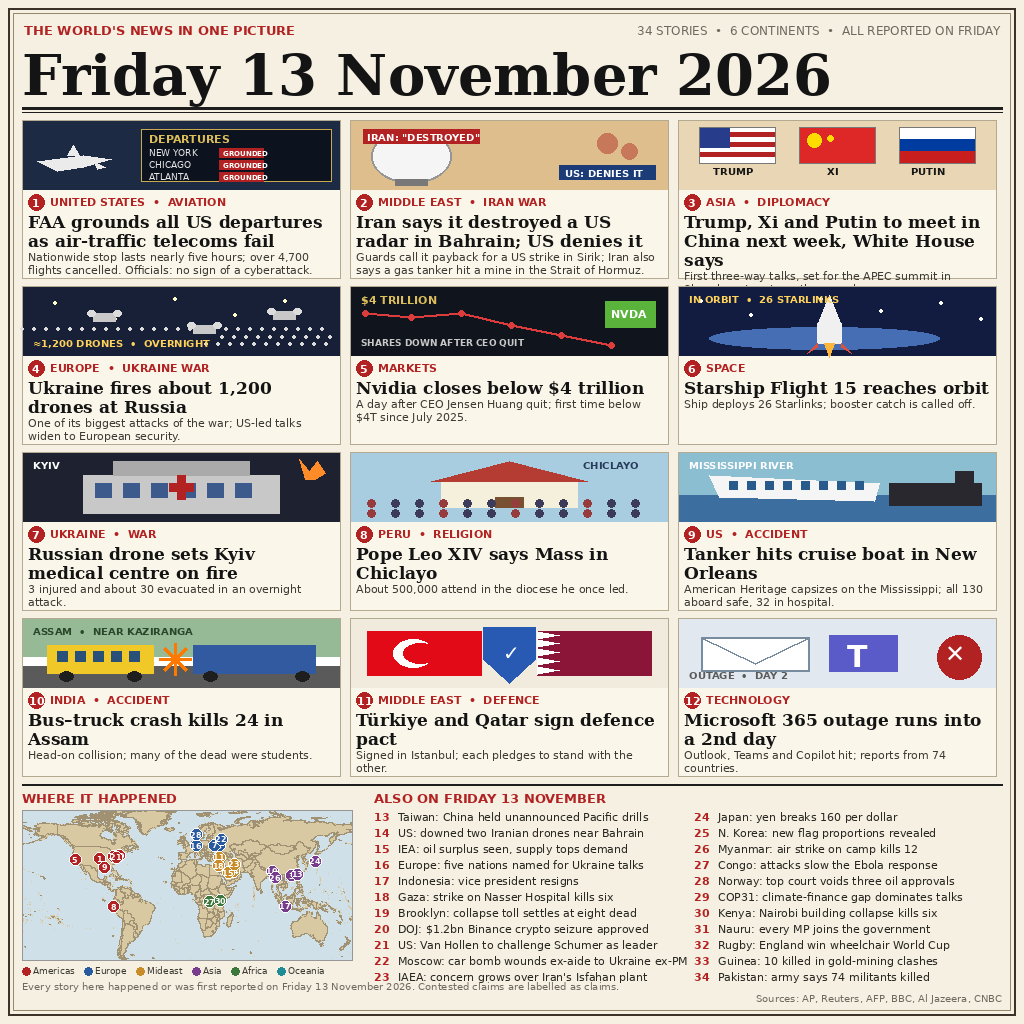
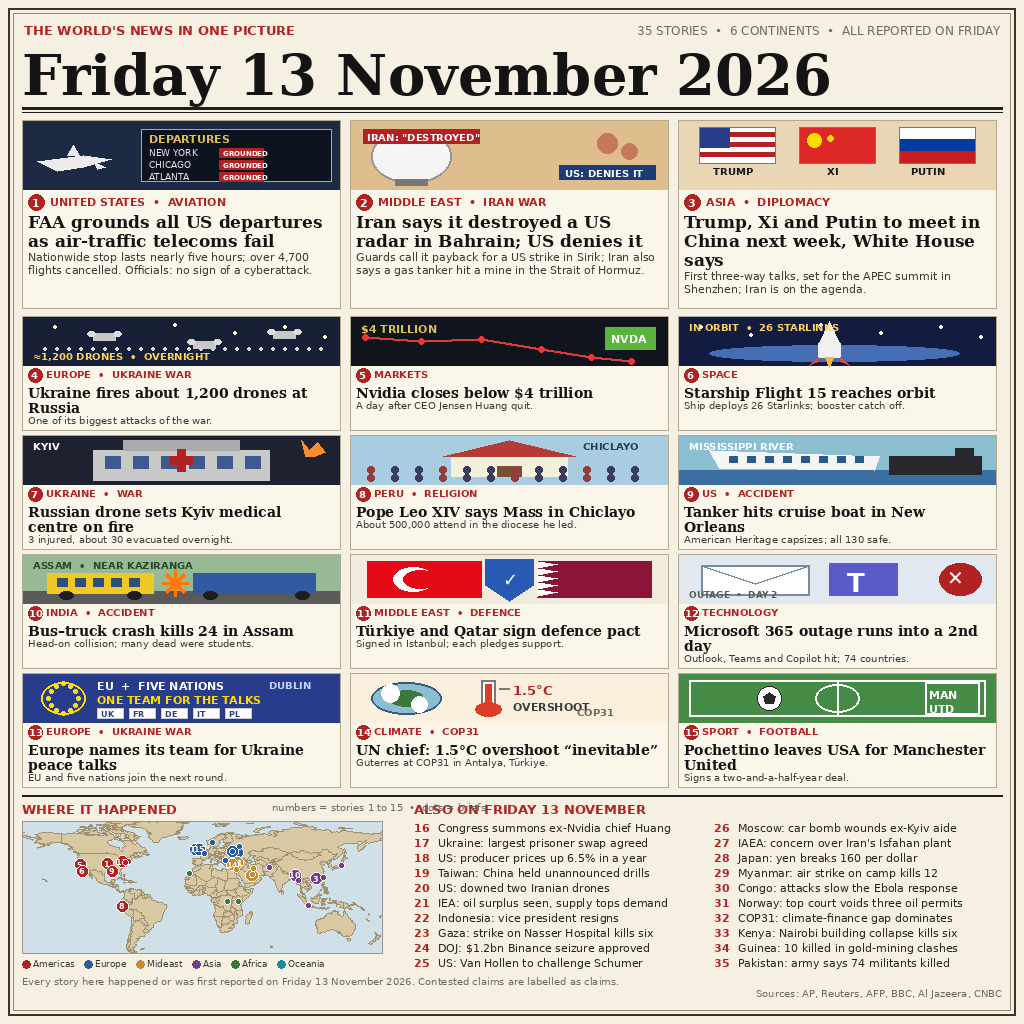
v2: 35 stories, 3 big + 12 small cards, bigger map (rank-1 format)

diff --git a/README.md b/README.md
@@ -1,7 +1,7 @@
 # Friday 13 November 2026 — The World's News in One Picture
 
 A newspaper front page that sums up Friday 13 November 2026 in one image:
-34 stories across 6 continents, with a world map pinning where each story
+35 stories across 6 continents, with a world map pinning where each story
 happened. Built from the verified reporting of 13 November 2026
 (AP, Reuters, AFP, BBC, Al Jazeera, CNBC).
 
@@ -10,7 +10,10 @@ The program copies the deterministic front page (`entry.png`) to
 `build_frontpage.py` (Pillow, real world outline from Natural Earth data),
 so every run produces the same bytes.
 
-## The 12 big stories
+## The 15 card stories
+
+3 big cards (FAA grounds all US departures; Iran says it destroyed a US
+radar in Bahrain; Trump, Xi and Putin to meet in China) and 12 small cards:
 
 1. FAA grounds all US departures as air-traffic telecoms fail
 2. Iran says it destroyed a US radar in Bahrain; US denies it
@@ -24,7 +27,10 @@ so every run produces the same bytes.
 10. Bus–truck crash kills 24 in Assam
 11. Türkiye and Qatar sign defence pact
 12. Microsoft 365 outage runs into a 2nd day
+13. Europe names its team for Ukraine peace talks
+14. UN chief: 1.5°C overshoot "inevitable"
+15. Pochettino leaves USA for Manchester United
 
-Plus 22 more stories (13–34) in the "Also on Friday 13 November" list,
-including Taiwan's account of China's unannounced Pacific drills, the IEA
-oil-surplus forecast, and Indonesia's vice president resigning.
+Plus 20 more stories (16–35) in the "Also on Friday 13 November" list,
+including Congress summoning ex-Nvidia chief Huang, the largest
+Ukraine–Russia prisoner swap agreed, and US producer prices up 6.5%.
